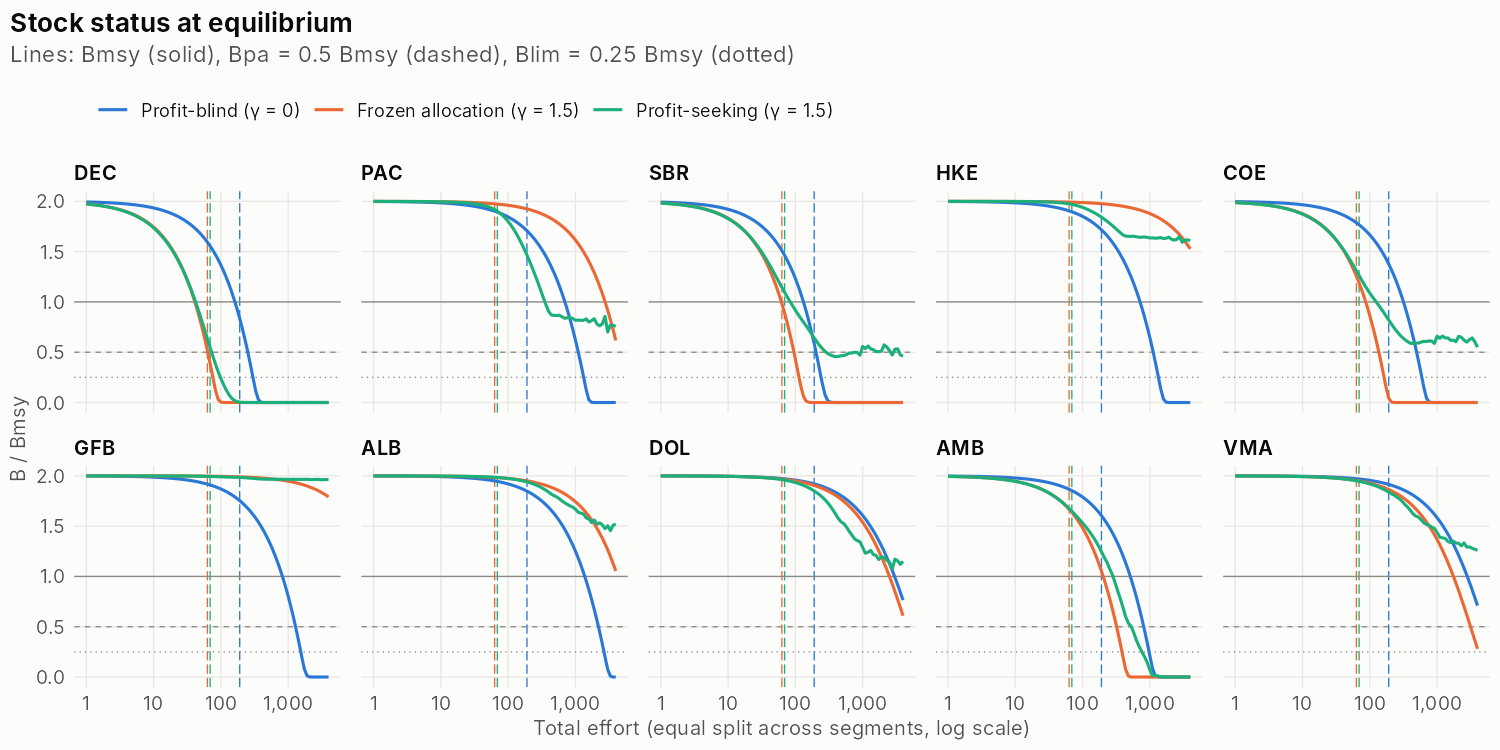
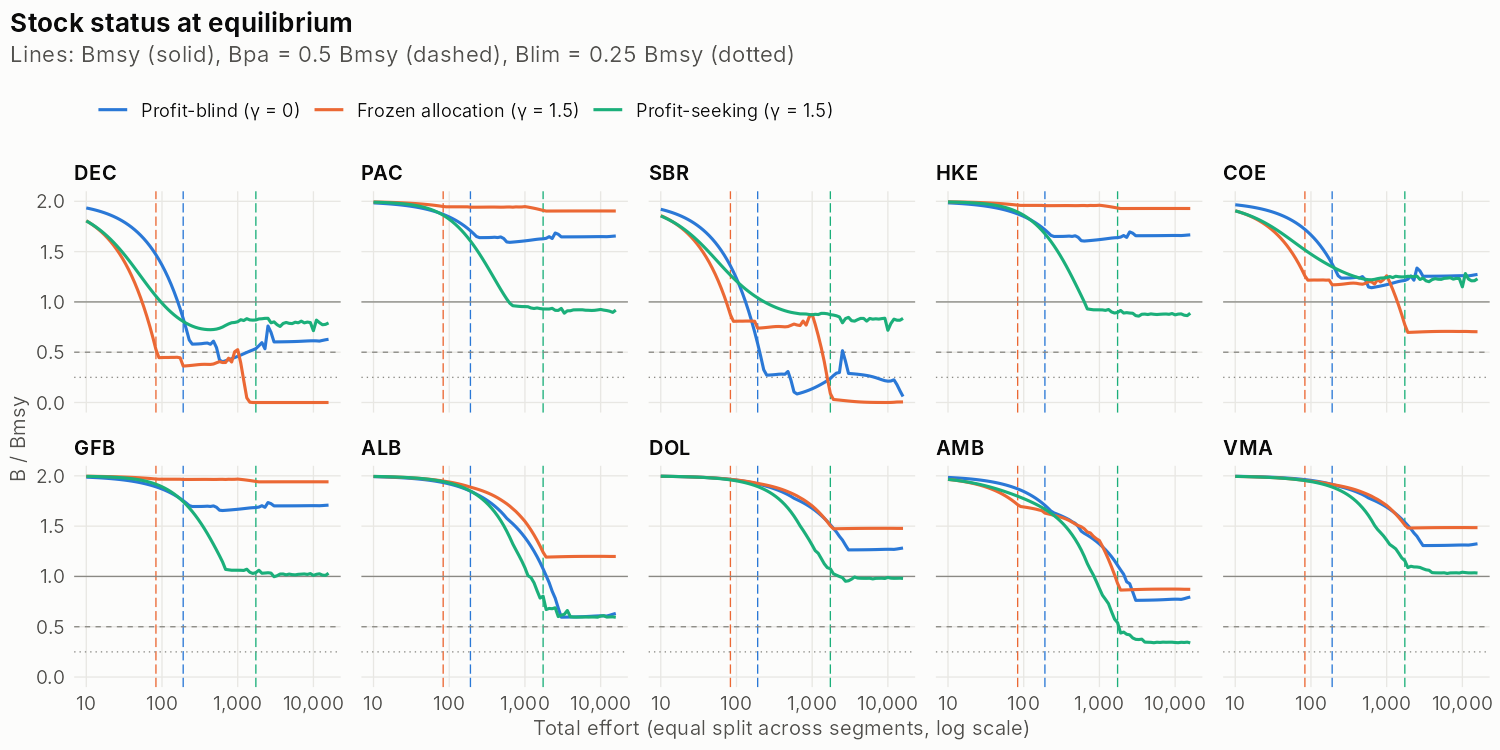
dev-mmsy: balanced reference system (relative costs, Seriola troll q 0.4, economic exit), open-access status quo
Claude-Session: https://claude.ai/code/session_01N6VjbRjKZChkyPJ4nwFJbR

diff --git a/dev/mmsy/README.md b/dev/mmsy/README.md
@@ -19,7 +19,7 @@ Run the scripts from the repository root, with cpueTargeting installed.
 | `scripts/06_optimise.R` | Constrained MMSY by lever set; demersal and pelagic caps with the mixed segment as a free agent; leakage |
 | `scripts/07_viability_closure.R` | Constrained MMSY with a segment viability floor and a closure of the shallow reef métier |
 | `scripts/08_fig_options.R` | Summary figure `figs/opt_options.png` |
-| `R/plots.R`, `scripts/05_plots.R` | Figures of stock status, F, effort and yield, saved to `figs/` (equilibrium against effort, Kobe plots at the constrained optima, projections) |
+| `R/plots.R`, `scripts/05_plots.R` | Figures of stock status, F, effort and yield, saved to `figs/`. Covers equilibrium against effort, Kobe plots of the status quo against the safeguarded optima, and projections from the status quo. Uses the balanced defaults |
 
 ## System
 
@@ -102,7 +102,51 @@ Run the scripts from the repository root, with cpueTargeting installed.
    * Blim → Bpa;
    * result: P(B < Blim) = 0, mean yield 581.
 
-## Safeguarded MMSY: optimisation results
+## Balanced reference system (current defaults)
+
+The first version was unbalanced in two ways:
+
+* **Cheap fishing.** With a common cost level, the reef paid long after Dentex was gone.
+* **One choke stock.** Dentex choked every option. Low-value métiers stopped paying long before high-value ones, so stocks were either collapsed or unfished.
+
+The defaults now give a plausible unmanaged state: the **open-access equilibrium** (`ms_open_access()`), in which caps don't bind and effort enters and leaves with each segment's profit. Three settings achieve this:
+
+* **Relative costs.** `cost_mode = "relative"`, `cost_share = 0.4`: each métier's cost per unit of effort is 40% of its own unfished revenue rate (with availability). Every métier then breaks even at the same relative revenue loss.
+* **Seriola troll catchability 0.4 instead of 0.8** (`ms_settings()`). With 0.8, Seriola is a large by-catch in both reef and troll métiers but the main revenue in neither, and it collapses under open access.
+* **Economic exit on by default** (`phi = 0.5`).
+
+**Status quo (open access).**
+
+* Effort 848/1,425/1,161 (demersal/pelagic/mixed), yield 1,803, profit about 0.
+* Median B/Bmsy 0.90.
+* Several stocks below Bmsy: Dentex 0.80, albacore 0.60.
+* One choke stock: Seriola 0.35, between Blim and Bpa.
+
+**Safeguarded optima (every stock ≥ Bpa, γ = 1.5).**
+
+| Option | Effort | Yield | Profit |
+|---|---|---|---|
+| Status quo, open access | 848/1,425/1,161 | 1,803 | about 0 |
+| Safeguarded MMSY, one cap | 565 per segment | 1,846 | 1,054 |
+| Safeguarded MMSY, segment caps each ≥ 20% | 767/429/680 | 1,855 | 1,036 |
+| MMEY, one cap | 183 per segment | 1,369 | 2,358 |
+| Demersal + pelagic caps, mixed free at 30% of open-access effort | — | 1,874 | 897 |
+
+* The one-cap safeguarded MMSY halves effort, restores Seriola to Bpa and turns profit positive.
+* The optimum is flat, so a viability floor costs almost nothing.
+* With caps unrestricted, the optimiser still drifts towards closing a segment, but for a gain of only about 3%.
+* Behaviour now helps. Along an equal-split scan, the highest effort that keeps every stock ≥ Bpa is:
+  * about 1,740 for a profit-seeking fleet;
+  * about 190 when allocation is profit-blind;
+  * about 80 when allocation is frozen.
+
+  Fishers leave depleted métiers.
+
+**A segment HCR depends on who answers for a stock.** If a segment answers only for stocks that are ≥ 5% of its own catch, nobody answers for Seriola (a small share of every segment's catch). The demersal segment is closed, the mixed segment moves in, and Seriola stays at 0.33. With responsibility defined by catchability (any usable métier has ≥ 20% of the stock's highest q), Seriola recovers to about 0.42. A ramp between Blim and Bpa still settles inside the ramp, so the trigger should sit above Bpa.
+
+Results under "Safeguarded MMSY: optimisation results" below come from the first, unbalanced defaults (`cost_mode = "common"`, `cost_share = 0.3`, Seriola troll 0.8, `phi = 0` unless stated).
+
+## Safeguarded MMSY: optimisation results (initial, unbalanced system)
 
 `ms_optimise()` maximises equilibrium yield, revenue or profit over effort caps, subject to every stock staying at or above Bpa. Two more constraints are optional:
 
